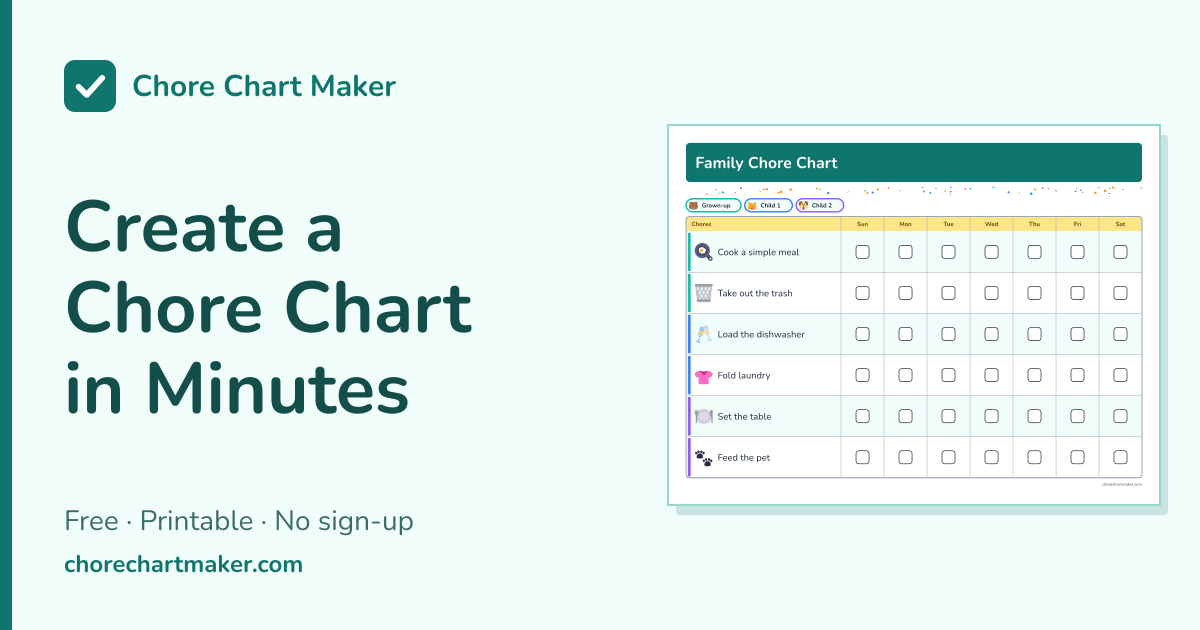
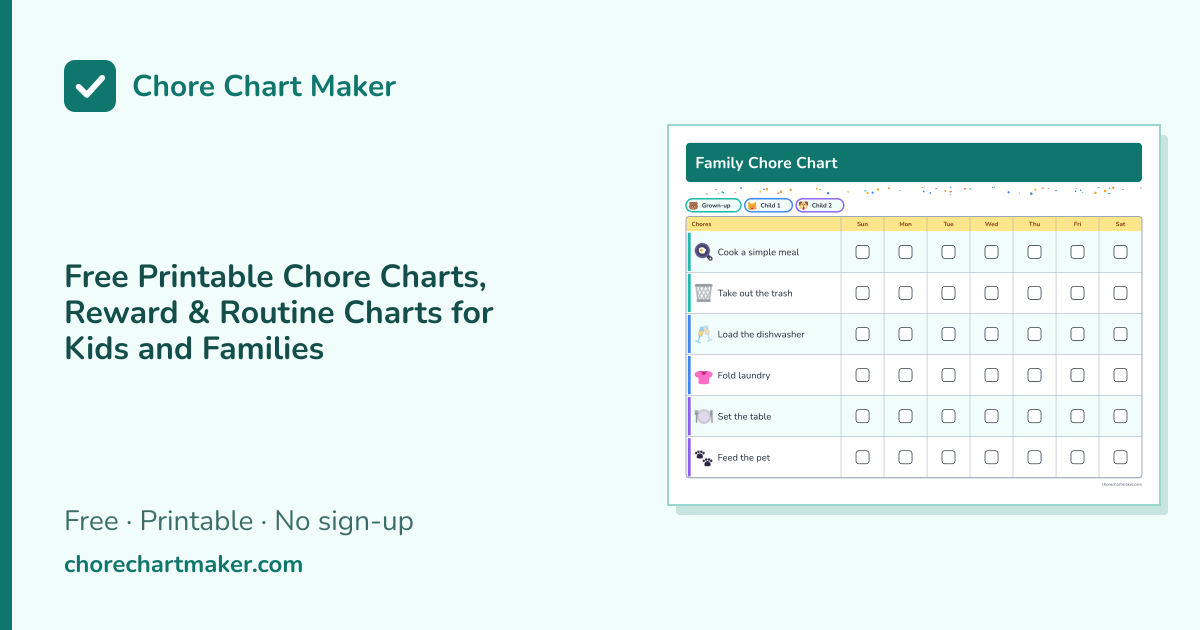
feat(seo): rewrite homepage hub copy and update social share image

Changed region(s): [[0.0308, 0.3016, 0.4317, 0.6635]]

diff --git a/src/lib/pages.ts b/src/lib/pages.ts
@@ -40,11 +40,11 @@ export const PAGES = {
   home: page({
     path: '/',
     label: 'Home',
-    title: 'Free Printable Chore Charts for Kids | Chore Chart Maker',
-    h1: 'Free Printable Chore Charts for Every Family',
+    title: 'Free Printable Chore Charts for Kids & Families',
+    h1: 'Free Printable Chore Charts, Reward & Routine Charts for Kids and Families',
     description:
-      'Browse free printable chore charts, reward charts and routine charts for kids, families and roommates. Customise in your browser, no sign-up, print in minutes.',
-    lastmod: '2026-11-04',
+      'Make free printable chore charts, reward charts and morning & bedtime routine charts for kids. No sign-up — print on Letter or A4 in minutes.',
+    lastmod: '2026-11-26',
   }),
   choreChartMaker: page({
     path: '/chore-chart-maker/',
